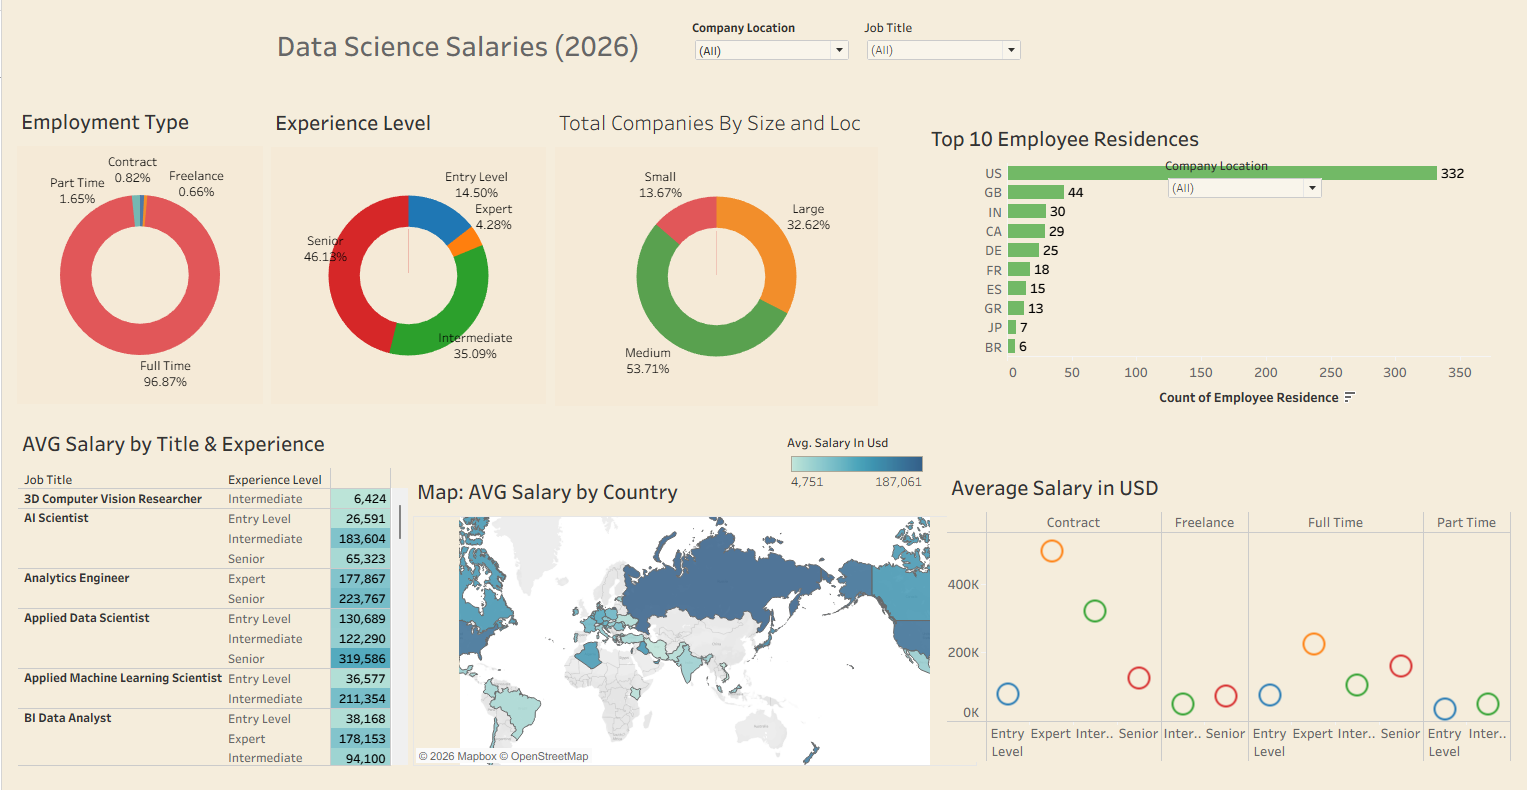
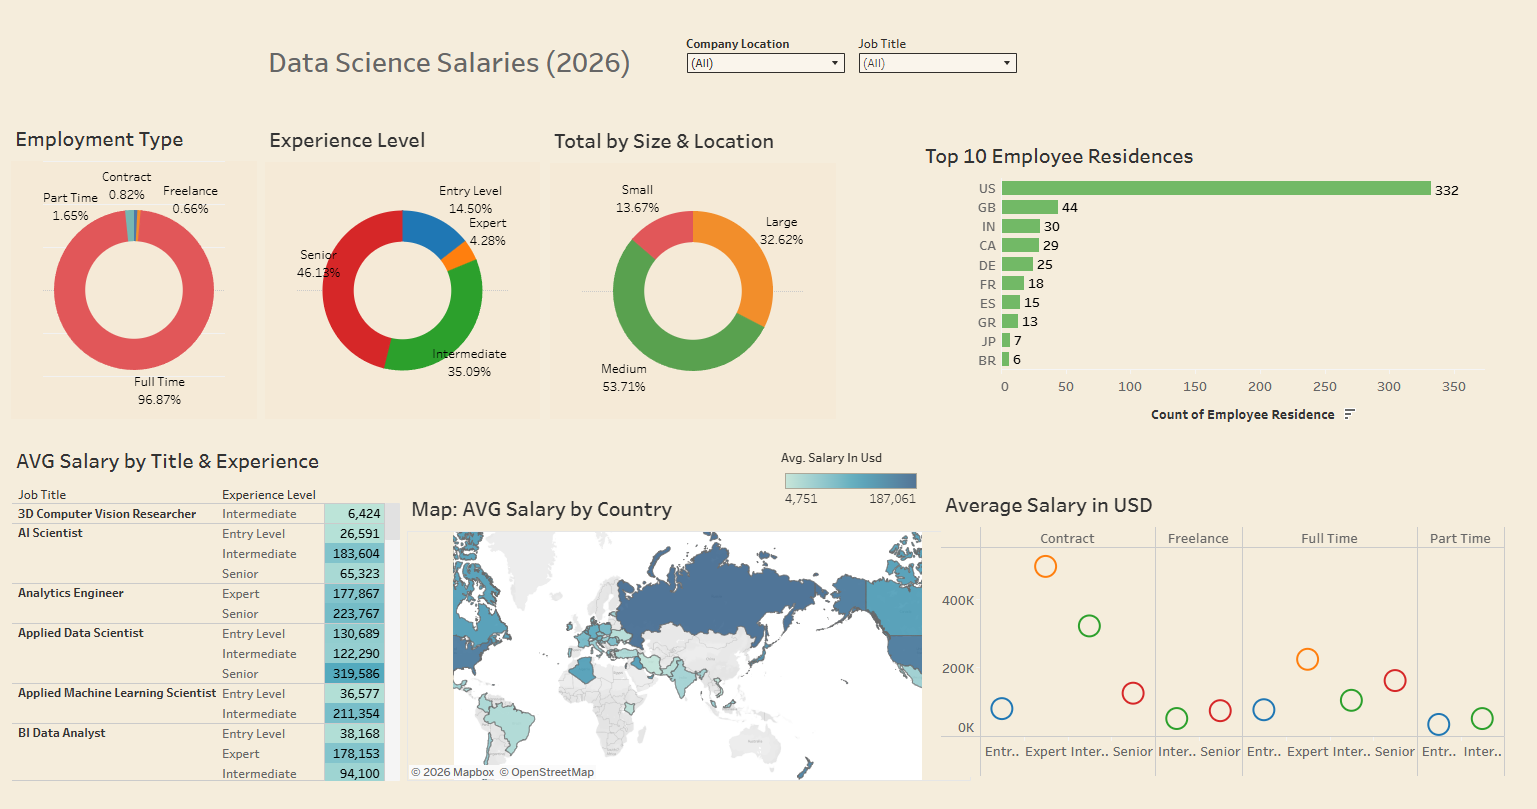
Use the updated Tableau screenshot
New export at 1537 x 809; reserved image dimensions updated to match.

Claude-Session: https://claude.ai/code/session_01YWZ5i6TqraFgHFUvsDJ2ci

diff --git a/src/dashboard/DashboardPage.jsx b/src/dashboard/DashboardPage.jsx
@@ -201,8 +201,8 @@ export default function DashboardPage() {
               >
                 <img
                   src={`${BASE}screenshots/tableau-ds-salaries.png`}
-                  width="1527"
-                  height="790"
+                  width="1537"
+                  height="809"
                   alt="Data Science Salaries (2026) dashboard: employment type, experience level and company size donuts, top ten employee residences, average salary by title and experience, a world map of average salary by country, and average salary in USD by employment type"
                   loading="lazy"
                 />

diff --git a/docs/Changelog_2026-09-13.md b/docs/Changelog_2026-09-13.md
@@ -108,7 +108,7 @@ Tableau serves, and cropping the iframe to the content rectangle would break
 the moment the dashboard is edited.
 
 ### Fix
-`public/screenshots/tableau-ds-salaries.png` (1527 x 790, the user's own
+`public/screenshots/tableau-ds-salaries.png` (1537 x 809, the user's own
 screenshot) is the stage, wrapped in a link to the live viz. The frame takes a
 new `is-image` modifier so its height follows the picture, no letterbox:
 
@@ -116,7 +116,7 @@ new `is-image` modifier so its height follows the picture, no letterbox:
 <div className="piece-frame is-light is-image">
   ...
   <a className="piece-stage piece-shot" href="https://public.tableau.com/views/ds_salaries_dashboard/Dashboard1" ...>
-    <img src={`${BASE}screenshots/tableau-ds-salaries.png`} width="1527" height="790" alt="..." loading="lazy" />
+    <img src={`${BASE}screenshots/tableau-ds-salaries.png`} width="1537" height="809" alt="..." loading="lazy" />
   </a>
 </div>
 ```
